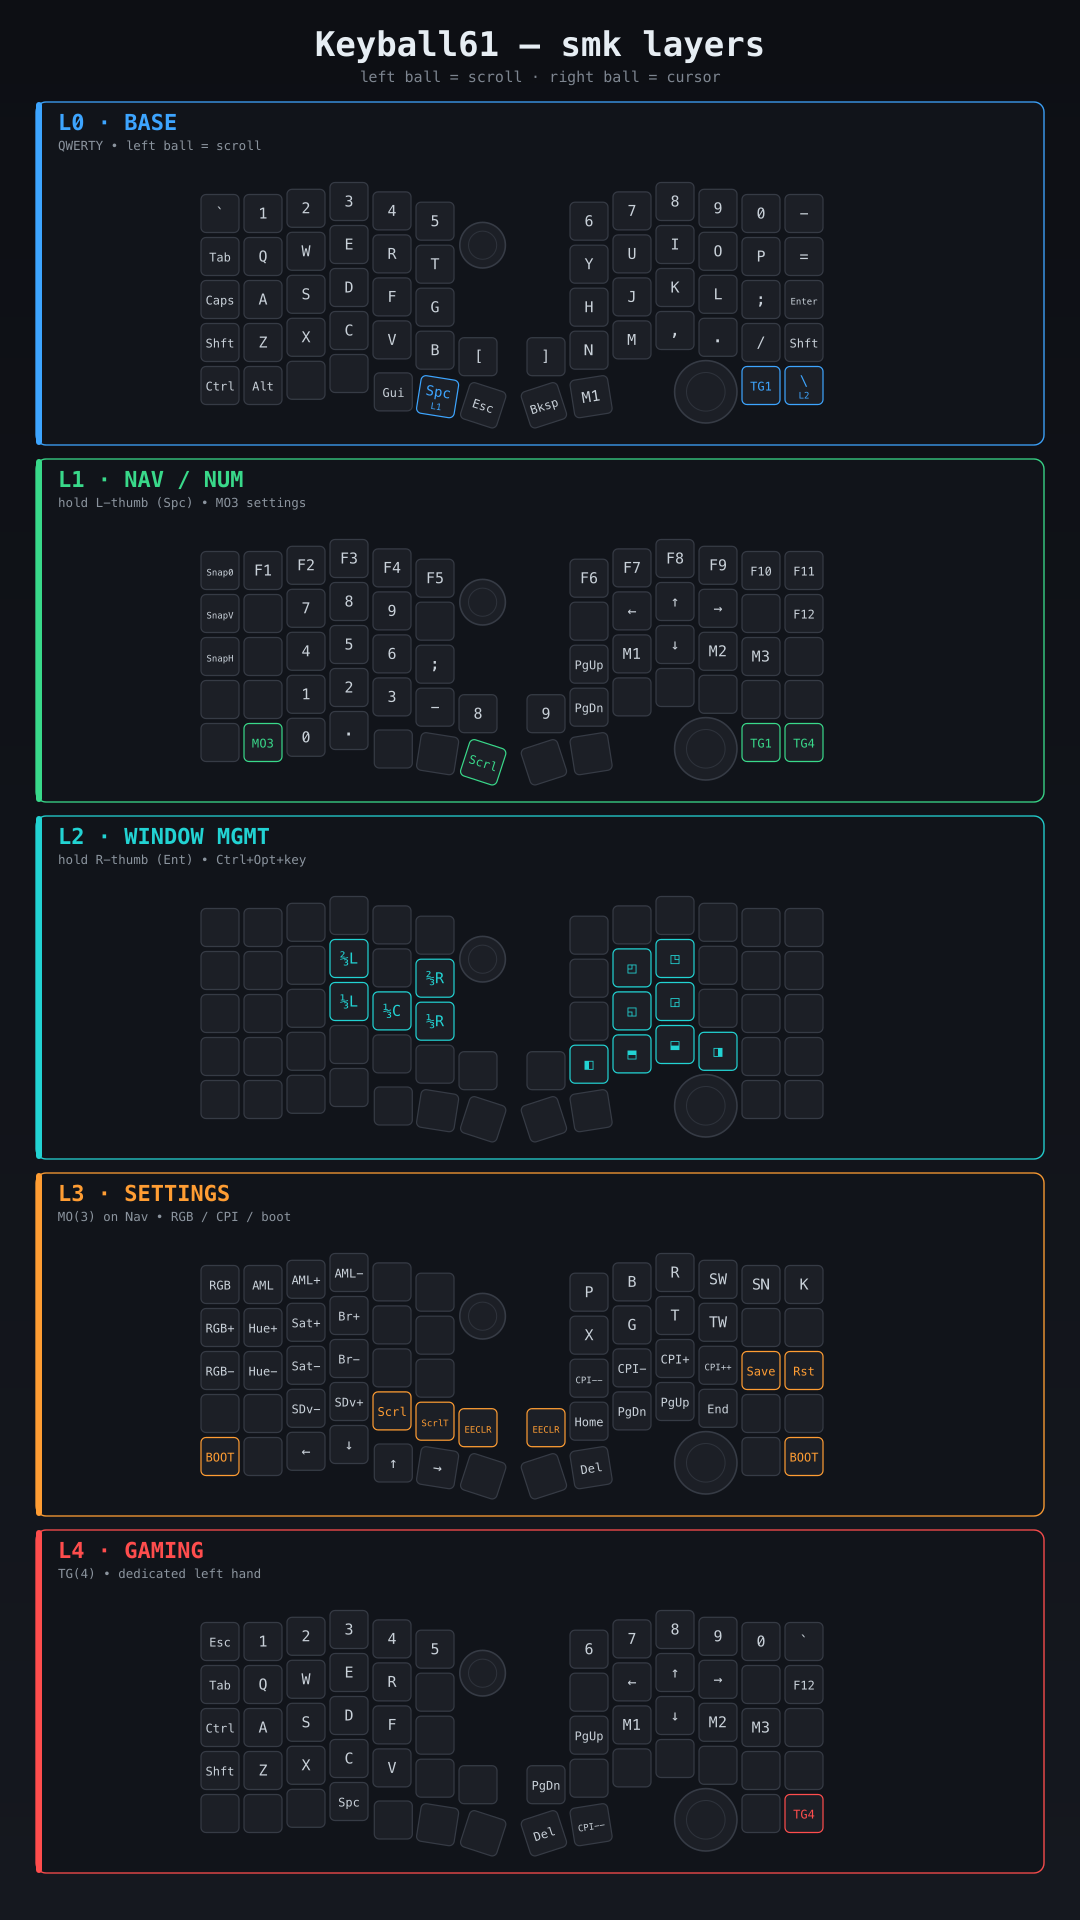
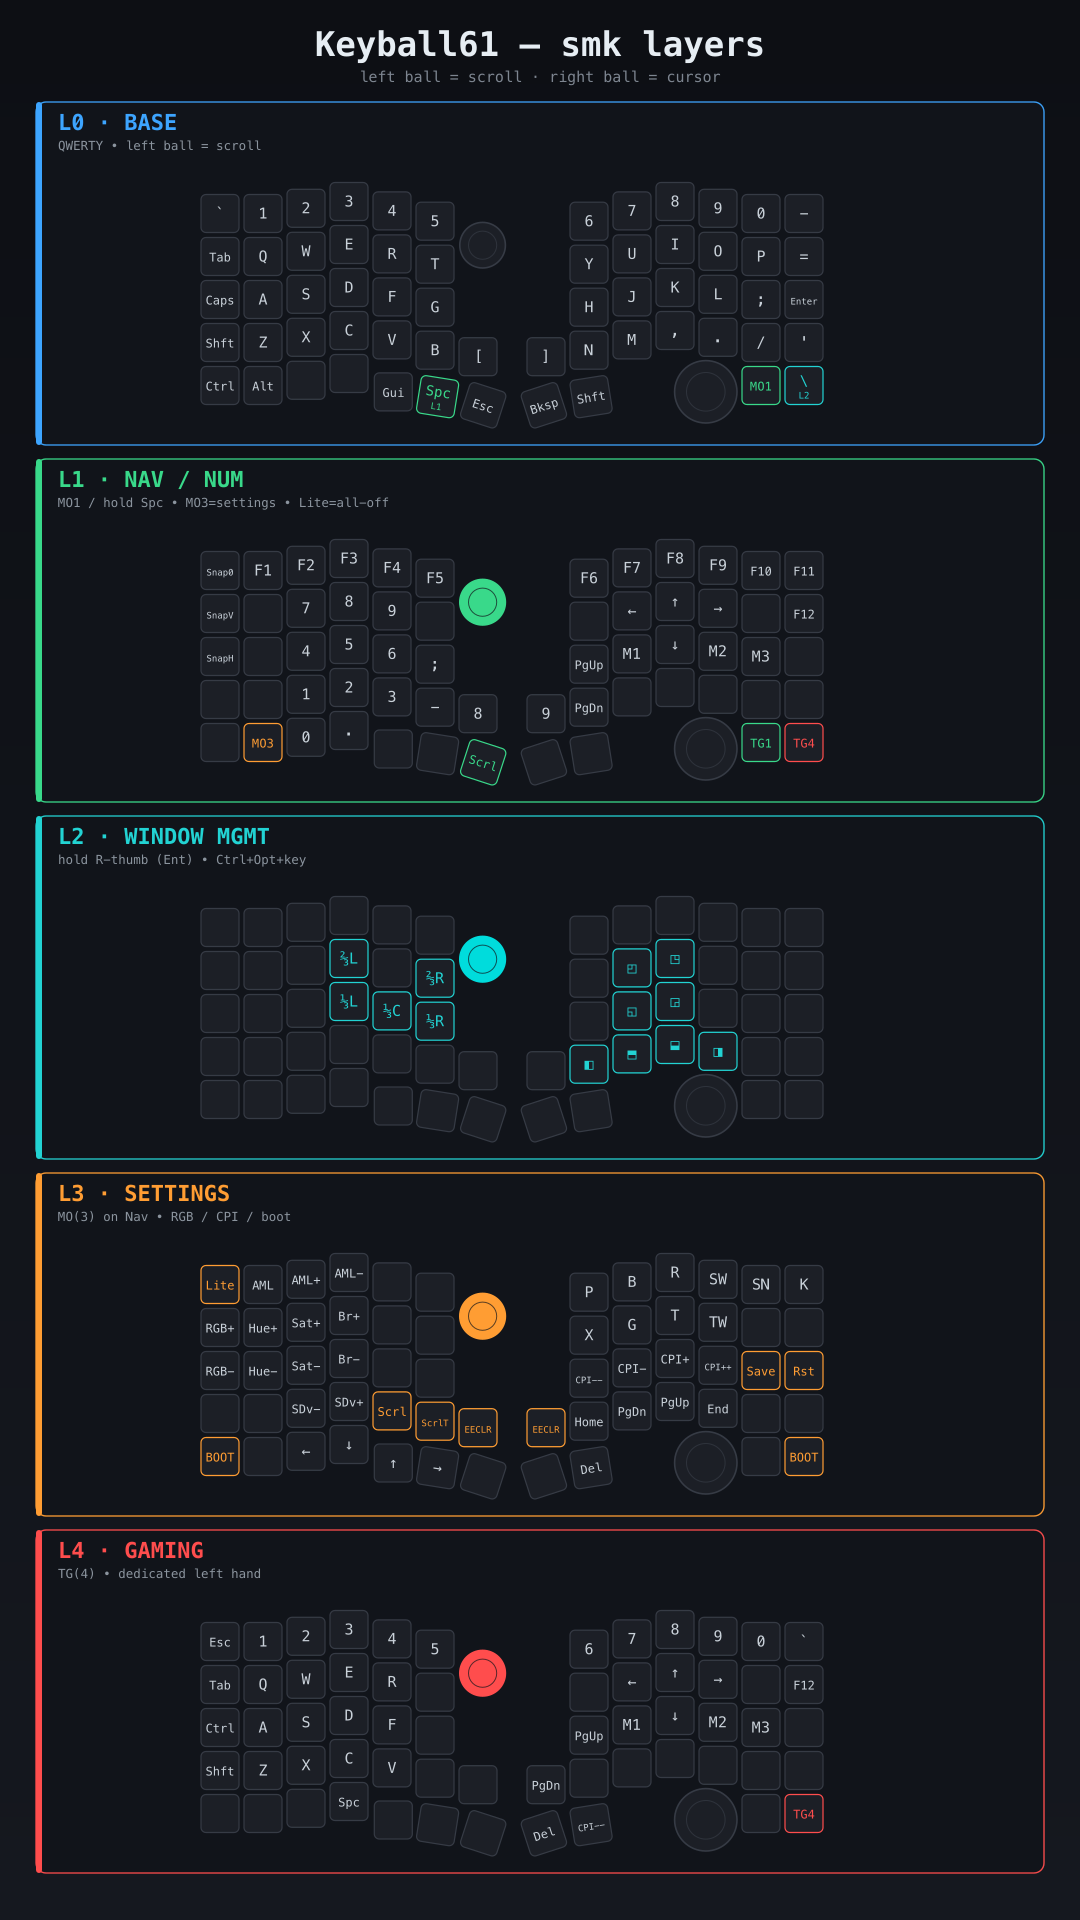
Add Nav-layer gaming/nav toggles; cheatsheet color cues
Keymap: Nav layer (L1) bottom row gets TG(4) (gaming) and TG(1); Gaming
layer (L4) gets matching TG(4)/TG(1) so both are reachable/escapable.

Cheatsheet: the Pimoroni trackball glyph now glows its actual per-layer LED
color in place (off on base, green/cyan/orange/red), and layer-switch keys
(TG/MO/LT) are tinted with the color of the layer they switch TO rather than
the current layer's accent. Updated L0 (quote pinky, Right-Shift thumb, MO1)
and the Settings LIGHTS key to match the firmware.

diff --git a/keyboards/keyball/keyball61/keymaps/smk/cheatsheet.py b/keyboards/keyball/keyball61/keymaps/smk/cheatsheet.py
@@ -13,11 +13,12 @@ W, H = 1080, 1920
 
 # Per-layer accent colors (match the Pimoroni LED scheme where it applies).
 LAYERS = [
-    {"n": 0, "name": "BASE",      "sub": "QWERTY • left ball = scroll",      "accent": "#3da5ff"},
-    {"n": 1, "name": "NAV / NUM", "sub": "hold L-thumb (Spc) • MO3 settings", "accent": "#39d98a"},
-    {"n": 2, "name": "WINDOW MGMT","sub": "hold R-thumb (Ent) • Ctrl+Opt+key", "accent": "#22d3d3"},
-    {"n": 3, "name": "SETTINGS",  "sub": "MO(3) on Nav • RGB / CPI / boot",   "accent": "#ff9d33"},
-    {"n": 4, "name": "GAMING",    "sub": "TG(4) • dedicated left hand",       "accent": "#ff4d4d"},
+    # `ball` = the Pimoroni trackball LED color on that layer (None = off).
+    {"n": 0, "name": "BASE",      "sub": "QWERTY • left ball = scroll",      "accent": "#3da5ff", "ball": None},
+    {"n": 1, "name": "NAV / NUM", "sub": "MO1 / hold Spc • MO3=settings • Lite=all-off", "accent": "#39d98a", "ball": "#39d98a"},
+    {"n": 2, "name": "WINDOW MGMT","sub": "hold R-thumb (Ent) • Ctrl+Opt+key", "accent": "#22d3d3", "ball": "#00dcdc"},
+    {"n": 3, "name": "SETTINGS",  "sub": "MO(3) on Nav • RGB / CPI / boot",   "accent": "#ff9d33", "ball": "#ff9d33"},
+    {"n": 4, "name": "GAMING",    "sub": "TG(4) • dedicated left hand",       "accent": "#ff4d4d", "ball": "#ff4d4d"},
 ]
 
 # Keycode -> display label. Friendly, compact glyphs for a wallpaper.
@@ -41,8 +42,8 @@ LABELS = {
     "KBC_SAVE": "Save", "KBC_RST": "Rst", "EE_CLR": "EECLR", "QK_BOOT": "BOOT",
     "SCRL_MO": "Scrl", "SCRL_TO": "ScrlT", "SCRL_DVD": "SDv-", "SCRL_DVI": "SDv+",
     "SSNP_FRE": "Snap0", "SSNP_VRT": "SnapV", "SSNP_HOR": "SnapH",
-    "TG(1)": "TG1", "TG(2)": "TG2", "TG(4)": "TG4", "MO(3)": "MO3",
-    "KC_RSFT": "Shft",
+    "TG(1)": "TG1", "TG(2)": "TG2", "TG(4)": "TG4", "MO(3)": "MO3", "MO(1)": "MO1",
+    "KC_RSFT": "Shft", "LIGHTS": "Lite",
     # Window-management (Ctrl+Opt+key) friendly labels.
     "WM(KC_LEFT)": "◧", "WM(KC_RGHT)": "◨", "WM(KC_UP)": "⬓", "WM(KC_DOWN)": "⬒",
     "WM(KC_U)": "◰", "WM(KC_I)": "◳", "WM(KC_J)": "◱", "WM(KC_K)": "◲",
@@ -83,8 +84,8 @@ KEYMAP = {
   (["KC_GRV","KC_1","KC_2","KC_3","KC_4","KC_5"], ["KC_6","KC_7","KC_8","KC_9","KC_0","KC_MINS"]),
   (["KC_TAB","KC_Q","KC_W","KC_E","KC_R","KC_T"], ["KC_Y","KC_U","KC_I","KC_O","KC_P","KC_EQL"]),
   (["KC_CAPS","KC_A","KC_S","KC_D","KC_F","KC_G"], ["KC_H","KC_J","KC_K","KC_L","KC_SCLN","KC_ENT"]),
-  (["KC_LSFT","KC_Z","KC_X","KC_C","KC_V","KC_B","KC_LBRC"], ["KC_RBRC","KC_N","KC_M","KC_COMM","KC_DOT","KC_SLSH","KC_RSFT"]),
-  (["KC_LCTL","KC_LALT","_______","_______","KC_LGUI","LT(1,KC_SPC)","KC_ESC"], ["KC_BSPC","KC_BTN1","_______","_______","_______","TG(1)","LT(2,KC_BSLS)"]),
+  (["KC_LSFT","KC_Z","KC_X","KC_C","KC_V","KC_B","KC_LBRC"], ["KC_RBRC","KC_N","KC_M","KC_COMM","KC_DOT","KC_SLSH","KC_QUOT"]),
+  (["KC_LCTL","KC_LALT","_______","_______","KC_LGUI","LT(1,KC_SPC)","KC_ESC"], ["KC_BSPC","KC_RSFT","_______","_______","_______","MO(1)","LT(2,KC_BSLS)"]),
 ],
 # L1 Nav / Num
 1: [
@@ -104,7 +105,7 @@ KEYMAP = {
 ],
 # L3 Settings
 3: [
-  (["RGB_TOG","AML_TO","AML_I50","AML_D50","_______","_______"], ["RGB_M_P","RGB_M_B","RGB_M_R","RGB_M_SW","RGB_M_SN","RGB_M_K"]),
+  (["LIGHTS","AML_TO","AML_I50","AML_D50","_______","_______"], ["RGB_M_P","RGB_M_B","RGB_M_R","RGB_M_SW","RGB_M_SN","RGB_M_K"]),
   (["RGB_MOD","RGB_HUI","RGB_SAI","RGB_VAI","_______","_______"], ["RGB_M_X","RGB_M_G","RGB_M_T","RGB_M_TW","_______","_______"]),
   (["RGB_RMOD","RGB_HUD","RGB_SAD","RGB_VAD","_______","_______"], ["CPI_D1K","CPI_D100","CPI_I100","CPI_I1K","KBC_SAVE","KBC_RST"]),
   (["_______","_______","SCRL_DVD","SCRL_DVI","SCRL_MO","SCRL_TO","EE_CLR"], ["EE_CLR","KC_HOME","KC_PGDN","KC_PGUP","KC_END","_______","_______"]),
@@ -124,7 +125,7 @@ KEYMAP = {
 def is_special(kc):
     return (kc.startswith("LT(") or kc.startswith("TG(") or kc.startswith("MO(")
             or kc.startswith("WM(") or kc in (
-        "SCRL_MO","SCRL_TO","QK_BOOT","EE_CLR","KBC_SAVE","KBC_RST"))
+        "SCRL_MO","SCRL_TO","QK_BOOT","EE_CLR","KBC_SAVE","KBC_RST","LIGHTS"))
 
 def esc(s):
     return s.replace("&","&amp;").replace("<","&lt;").replace(">","&gt;")
@@ -294,16 +295,40 @@ def render_half(keys, x0, y0, accent, parts, right=False, row_idx=0):
                 col = i - 1        # 4, 5
                 place(col, rstag[col], 0.0, keys[i])
     return
-def draw_key(kx, ky, kc, accent, parts, rot=0.0):
-    """Draw one key box + label at absolute (kx, ky), optionally rotated."""
-    key_rect(kx, ky, KEY, label(kc), accent, is_special(kc), parts, rot)
+# Destination-layer color for a layer-switch key (TG/MO/LT/DF -> layer N).
+# Layer-switch keys are tinted with the color of the layer they activate,
+# rather than the current layer's accent.
+_LAYER_COLOR = {n: L["accent"] for n, L in {l["n"]: l for l in LAYERS}.items()}
+def layer_switch_color(kc):
+    import re as _re
+    m = _re.match(r'(?:TG|MO|TO|DF)\((\d+)\)', kc)
+    if not m:
+        m = _re.match(r'LT\((\d+),', kc)
+    if m:
+        return _LAYER_COLOR.get(int(m.group(1)))
+    return None
 
-def draw_ball(cx, cy, r, color, name, parts):
-    """Draw a trackball as a ringed circle in the same gray as the key boxes."""
+def draw_key(kx, ky, kc, accent, parts, rot=0.0):
+    """Draw one key box + label at absolute (kx, ky), optionally rotated.
+    Layer-switch keys are tinted with their destination layer's color."""
+    dest = layer_switch_color(kc)
+    key_rect(kx, ky, KEY, label(kc), dest if dest else accent, is_special(kc), parts, rot)
+
+def draw_ball(cx, cy, r, glow, name, parts):
+    """Draw a trackball as a ringed circle. `glow` is the LED color the ball
+    shows on this layer (None = LED off / no LED -> neutral gray)."""
+    if glow:
+        fill   = glow
+        stroke = glow
+        inner  = "#11141a"   # dark inner ring reads against the glow fill
+    else:
+        fill   = "#1c1f26"   # neutral gray, same as key boxes (LED off)
+        stroke = "#363b45"
+        inner  = "#363b45"
     parts.append(f'<circle cx="{cx:.1f}" cy="{cy:.1f}" r="{r:.1f}" '
-                 f'fill="#1c1f26" stroke="#363b45" stroke-width="1.6"/>')
+                 f'fill="{fill}" stroke="{stroke}" stroke-width="1.6"/>')
     parts.append(f'<circle cx="{cx:.1f}" cy="{cy:.1f}" r="{r*0.62:.1f}" '
-                 f'fill="none" stroke="#363b45" stroke-width="1" opacity="0.7"/>')
+                 f'fill="none" stroke="{inner}" stroke-width="1" opacity="0.7"/>')
 
 def build_svg():
     parts = [f'<svg xmlns="http://www.w3.org/2000/svg" width="{W}" height="{H}" viewBox="0 0 {W} {H}">']
@@ -359,13 +384,14 @@ def build_svg():
         pmw_r  = KEY*0.82
         pmw_cx = rx0 + 4.0*U - KGAP - pmw_r              # right edge KGAP left of col 4
         pmw_cy = grid_y + 4.0*ROW_H + KEY/2 + 1.25*KGAP  # row-4 centre, nudged down ~1.25 gaps
-        draw_ball(pmw_cx, pmw_cy, pmw_r, "#ff8a3d", "PMW3360", parts)
+        draw_ball(pmw_cx, pmw_cy, pmw_r, None, "PMW3360", parts)  # PMW3360 has no LED
         # Left Pimoroni small ball: right of the inner column, its vertical
         # centre level with the TOP edge of the T key (row 1, inner column).
+        # Filled with the LED color this layer shows (None on base = off).
         t_top = grid_y + 1*ROW_H + COL_STAGGER[5]*U
         pim_cx = kb_x0 + 6.55*U
         pim_cy = t_top
-        draw_ball(pim_cx, pim_cy, KEY*0.6, accent, "Pimoroni", parts)
+        draw_ball(pim_cx, pim_cy, KEY*0.6, layer.get("ball"), "Pimoroni", parts)
 
     parts.append('</svg>')
     return "\n".join(parts)

diff --git a/keyboards/keyball/keyball61/keymaps/smk/keymap.c b/keyboards/keyball/keyball61/keymaps/smk/keymap.c
@@ -57,7 +57,7 @@ const uint16_t PROGMEM keymaps[][MATRIX_ROWS][MATRIX_COLS] = {
     SSNP_VRT     , _______      , KC_7         , KC_8         , KC_9         , _______      ,                                 _______      , KC_LEFT      , KC_UP        , KC_RGHT      , _______      , KC_F12       ,
     SSNP_HOR     , _______      , KC_4         , KC_5         , KC_6         , S(KC_SCLN)   ,                                 KC_PGUP      , KC_BTN1      , KC_DOWN      , KC_BTN2      , KC_BTN3      , _______      ,
     _______      , _______      , KC_1         , KC_2         , KC_3         , S(KC_MINS)   , S(KC_8)      ,   S(KC_9)      , KC_PGDN      , _______      , _______      , _______      , _______      , _______      ,
-    _______      , MO(3)        , KC_0         , KC_DOT       , _______      , _______      , SCRL_MO      ,   _______      , _______      , _______      , _______      , _______      , TG(1)        , TG(4)
+    TG(4)        , MO(3)        , KC_0         , KC_DOT       , _______      , _______      , SCRL_MO      ,   _______      , _______      , _______      , _______      , _______      , _______      , TG(1)
 ),
 
 // Layer 2: Window management (Rectangle). Held via right thumb (Enter).
@@ -87,7 +87,7 @@ const uint16_t PROGMEM keymaps[][MATRIX_ROWS][MATRIX_COLS] = {
     KC_TAB       , KC_Q         , KC_W         , KC_E         , KC_R         , _______      ,                                 _______      , KC_LEFT      , KC_UP        , KC_RGHT      , _______      , KC_F12       ,
     KC_LCTL      , KC_A         , KC_S         , KC_D         , KC_F         , _______      ,                                 KC_PGUP      , KC_BTN1      , KC_DOWN      , KC_BTN2      , KC_BTN3      , _______      ,
     KC_LSFT      , KC_Z         , KC_X         , KC_C         , KC_V         , _______      , _______      ,   _______      , KC_PGDN      , _______      , _______      , _______      , _______      , _______      ,
-    _______      , _______      , _______      , KC_SPC       , _______      , _______      , _______      ,   KC_DEL       , CPI_D1K      , CPI_D100     , CPI_I100     , CPI_I1K      , _______      , TG(4)
+    TG(4)        , _______      , _______      , KC_SPC       , _______      , _______      , _______      ,   KC_DEL       , CPI_D1K      , CPI_D100     , CPI_I100     , CPI_I1K      , _______      , TG(1)
 ),
 
 [6] = LAYOUT_universal(
